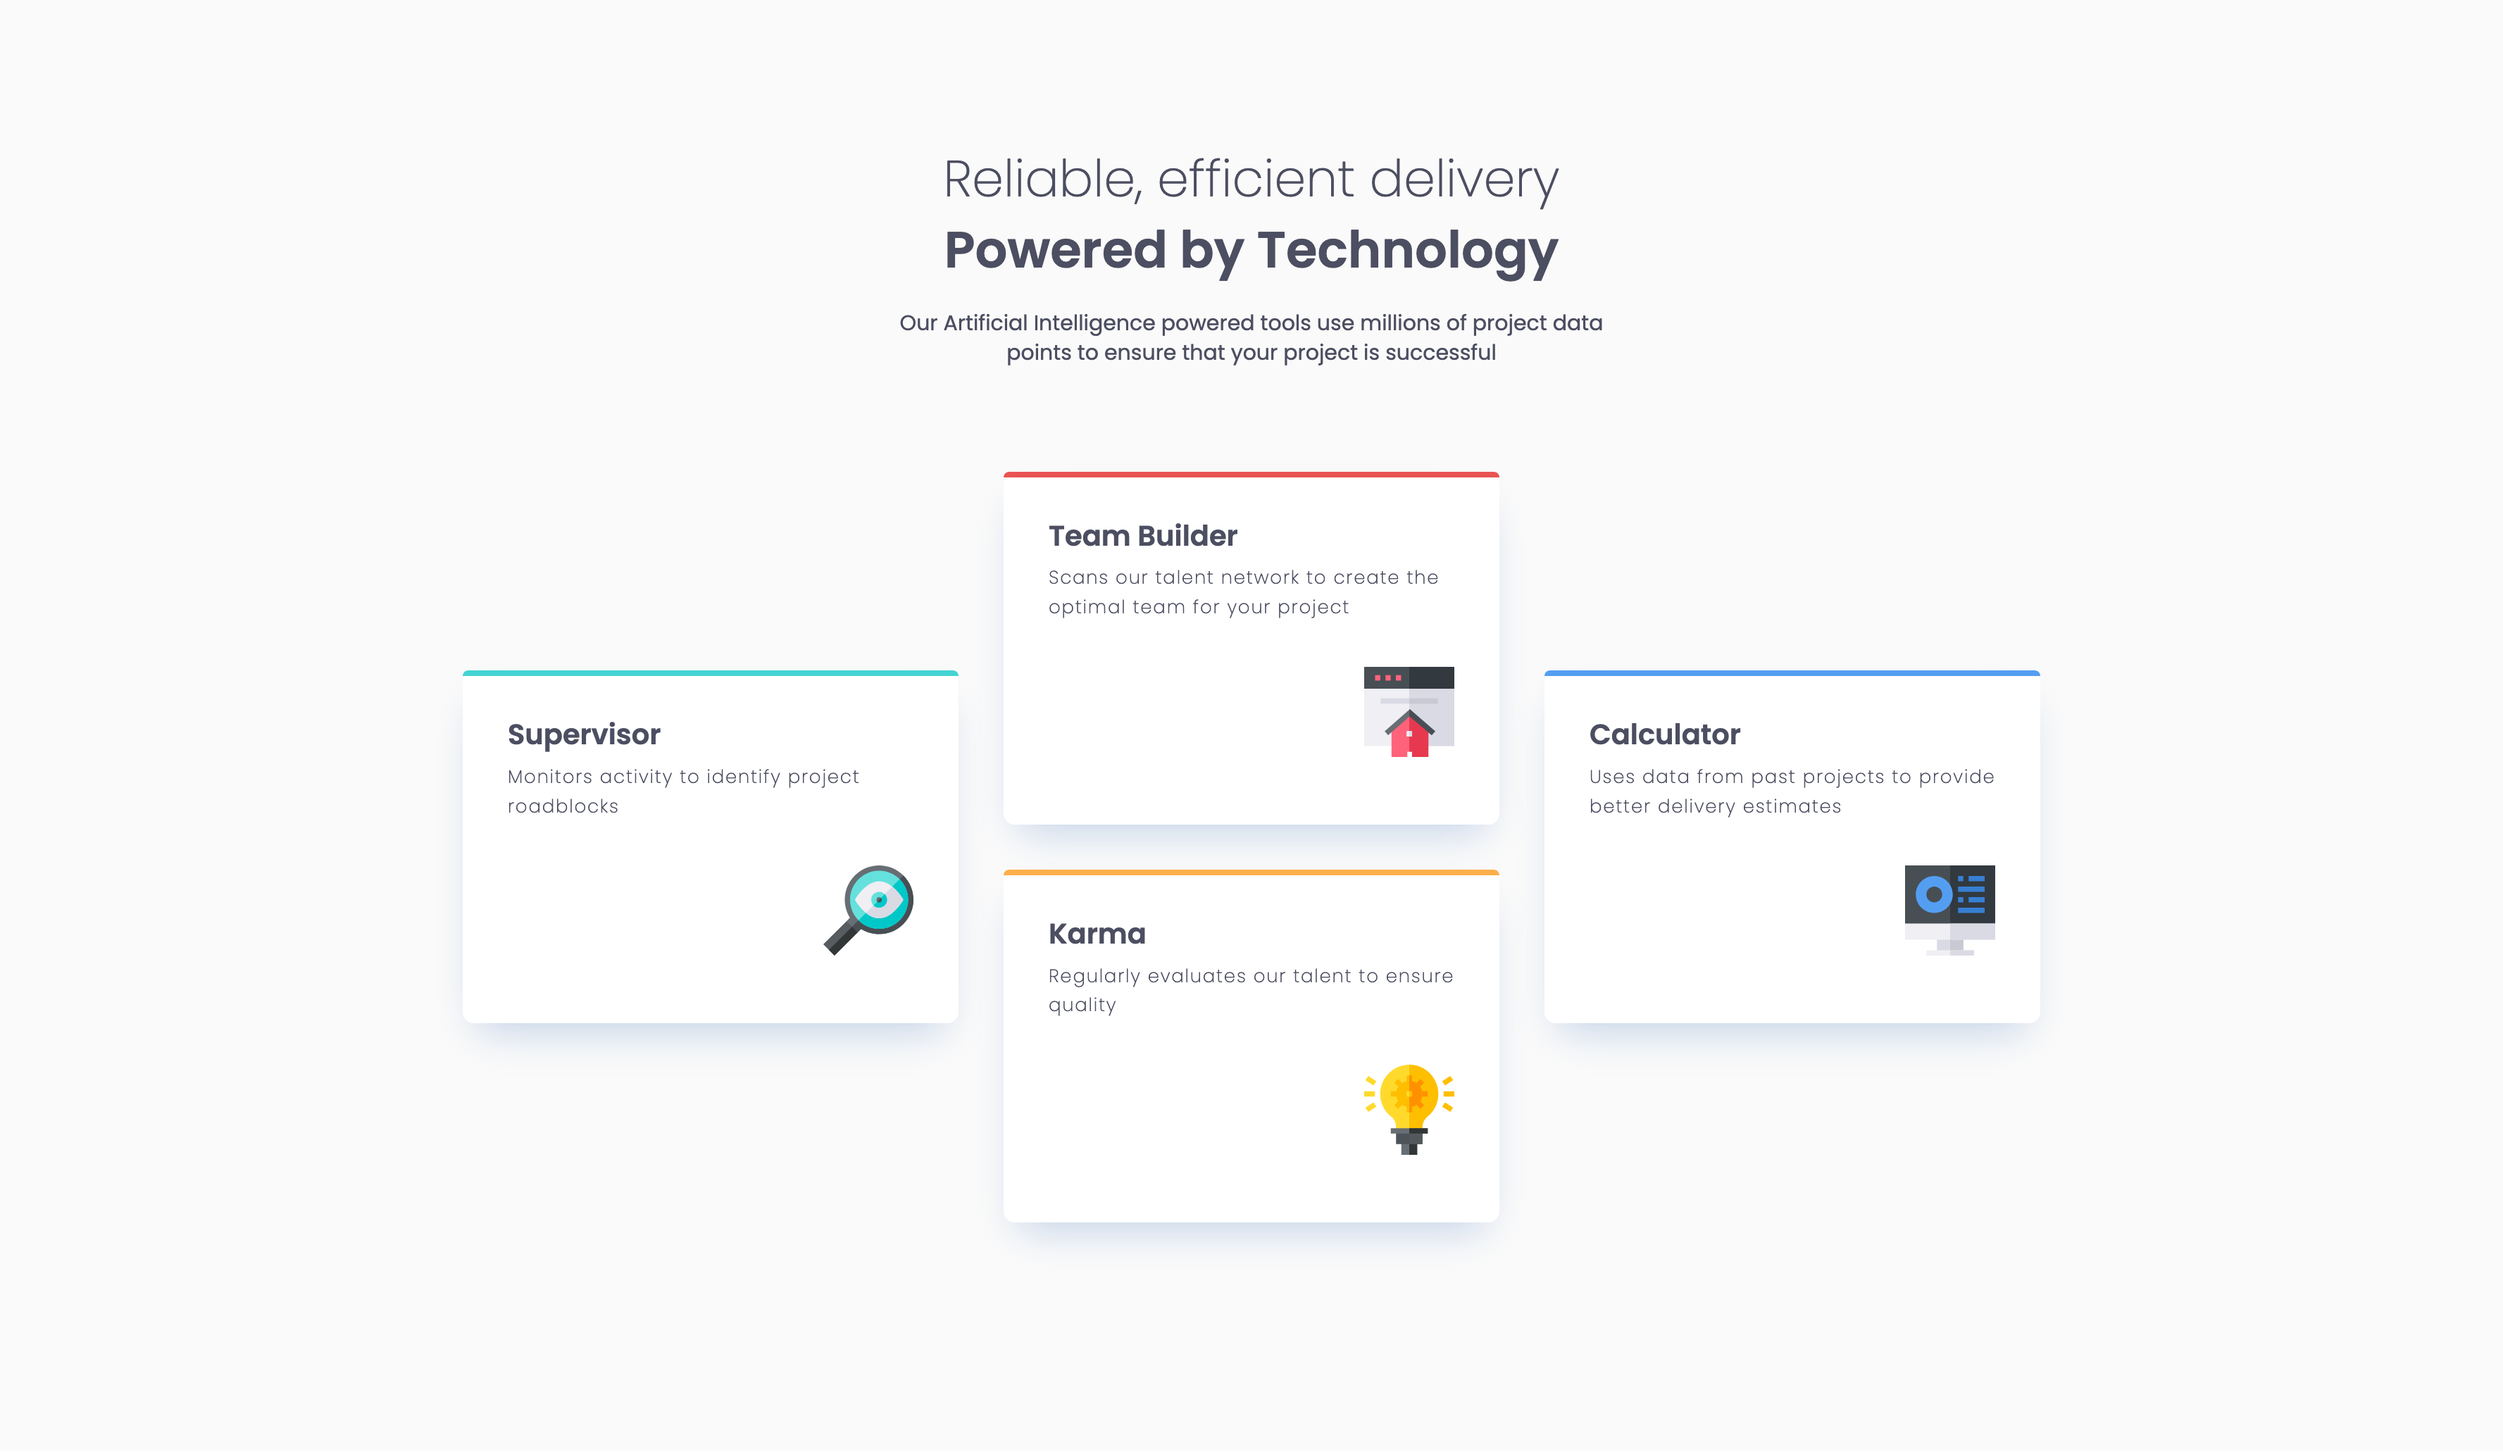
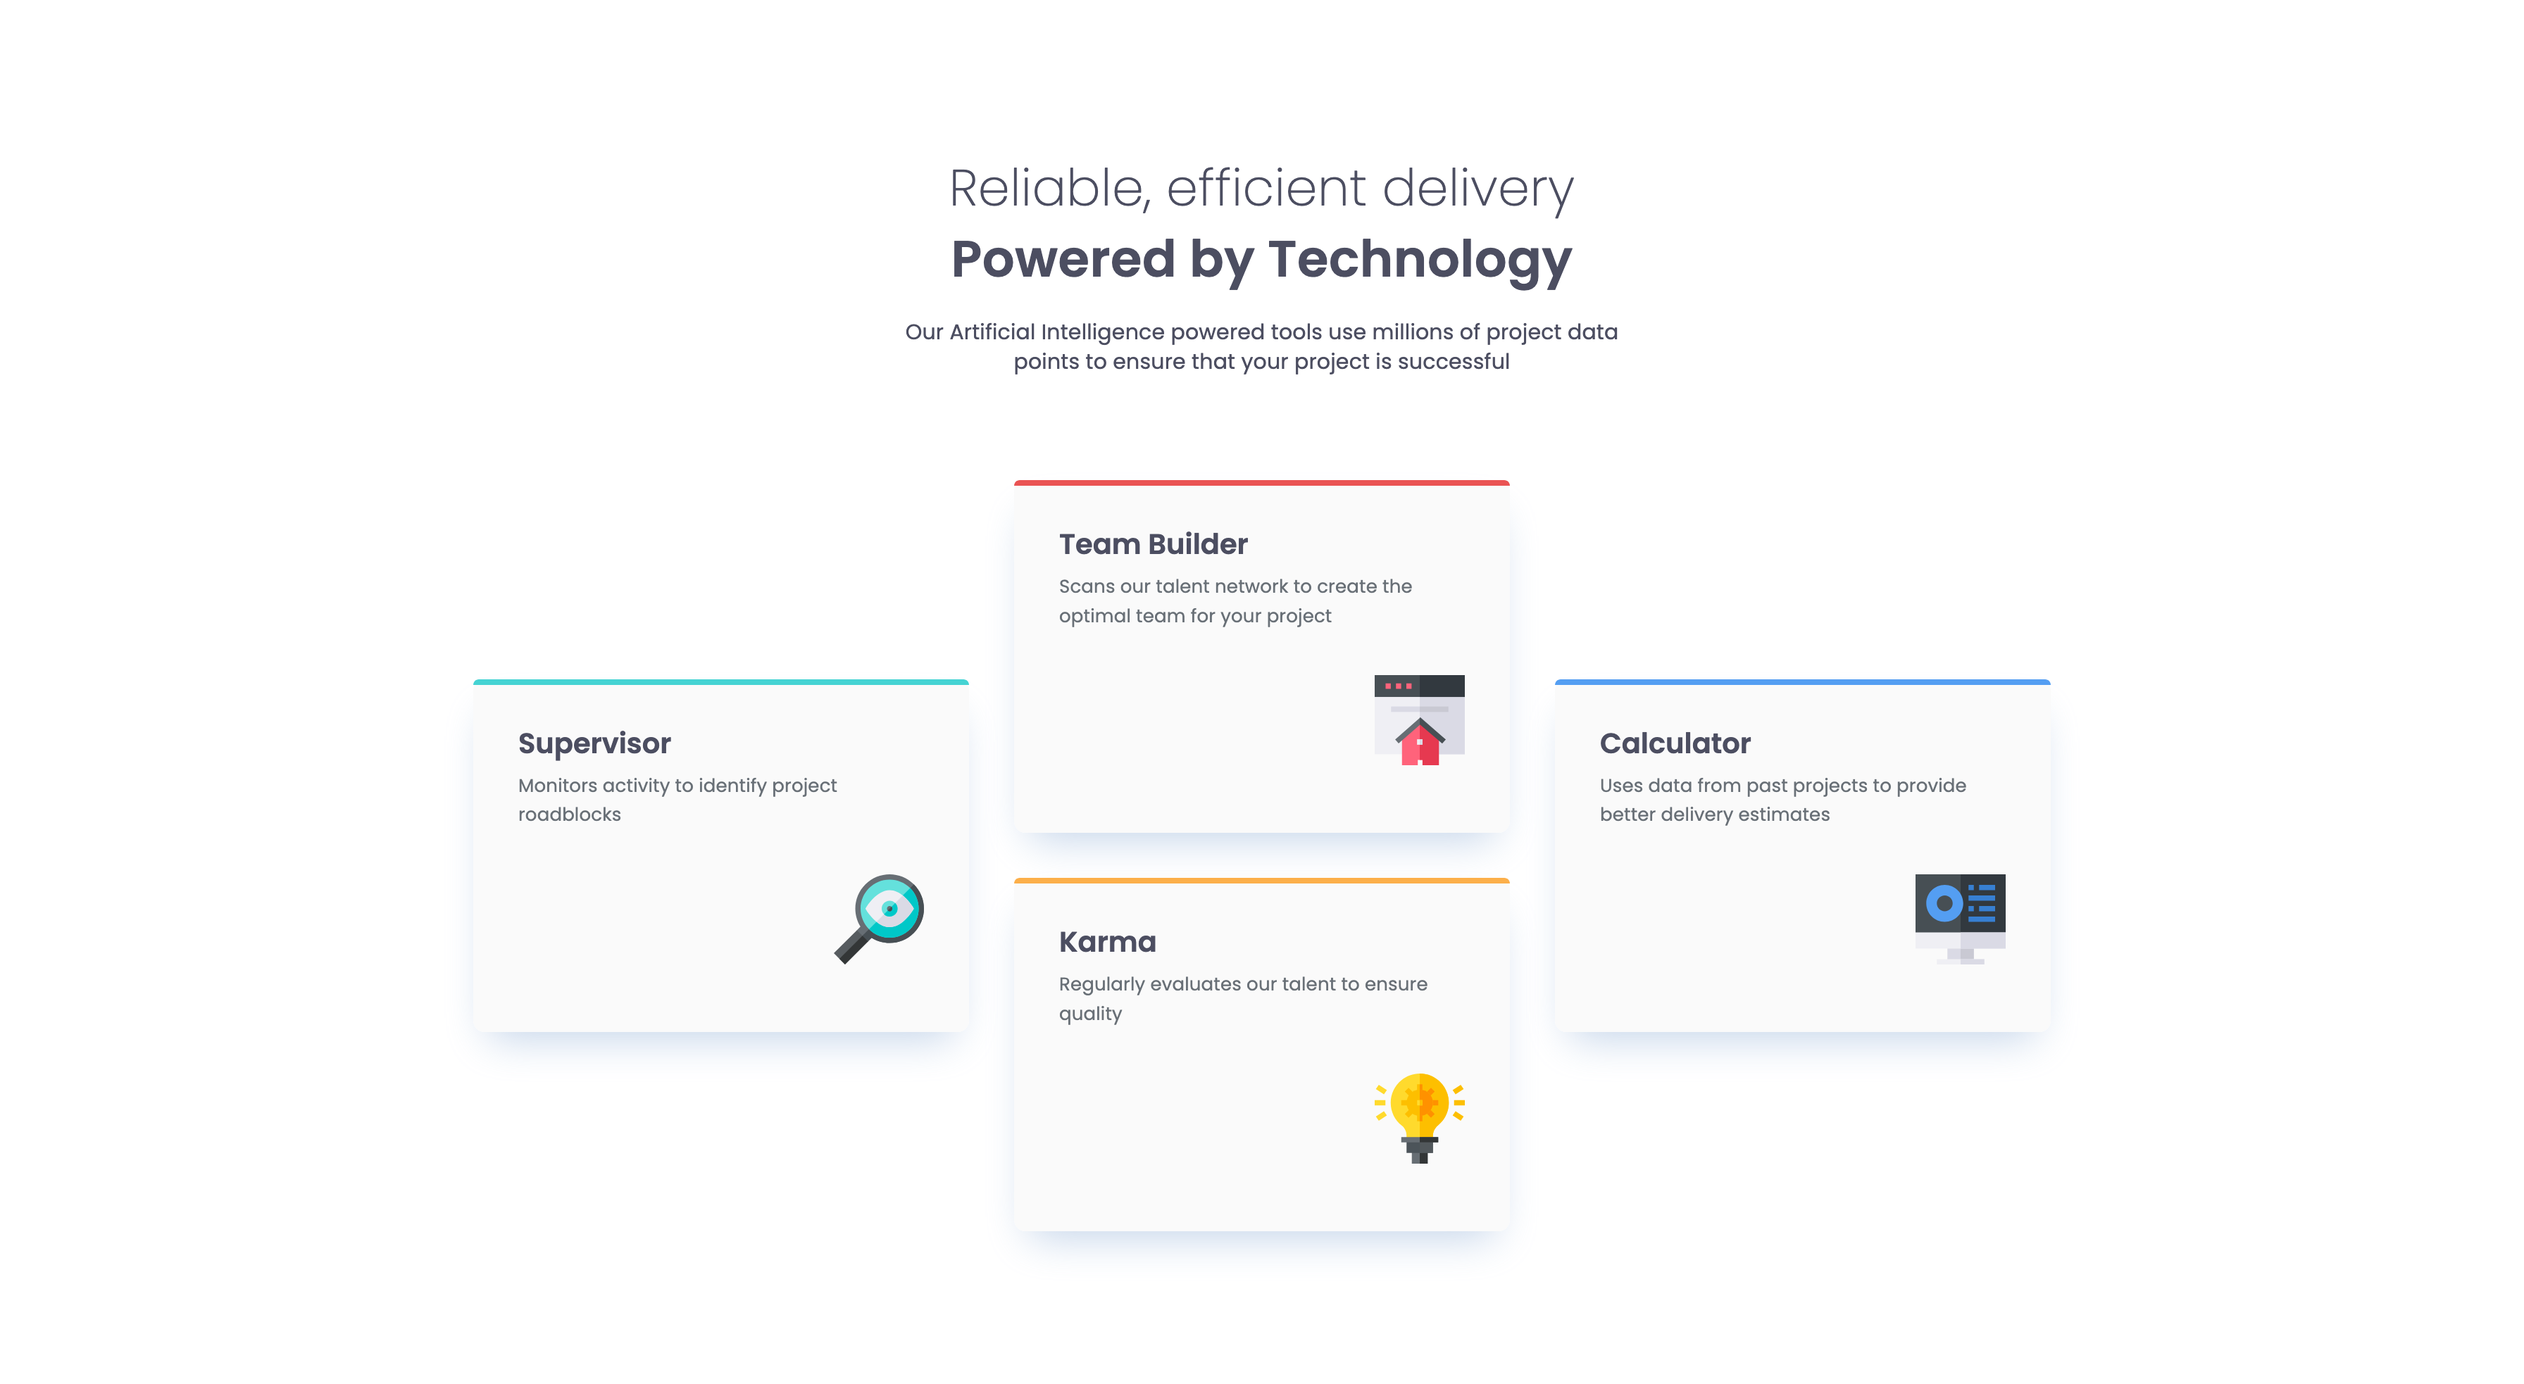
fix desktop layout and replace solution img

diff --git a/styles.css b/styles.css
@@ -49,6 +49,7 @@ body {
   display: flex;
   flex-direction: column;
   align-items: center;
+  justify-content: center;
   gap: var(--spacing-750);
   margin: var(--spacing-700) var(--spacing-400) 2.875rem;
 }
@@ -174,7 +175,8 @@ body {
 @media (min-width: 90rem) {
   body {
     max-width: 70rem;
-    margin: 6.375rem auto;
+    margin: auto;
+    padding-block: 6.375rem;
   }
 
   .features {
